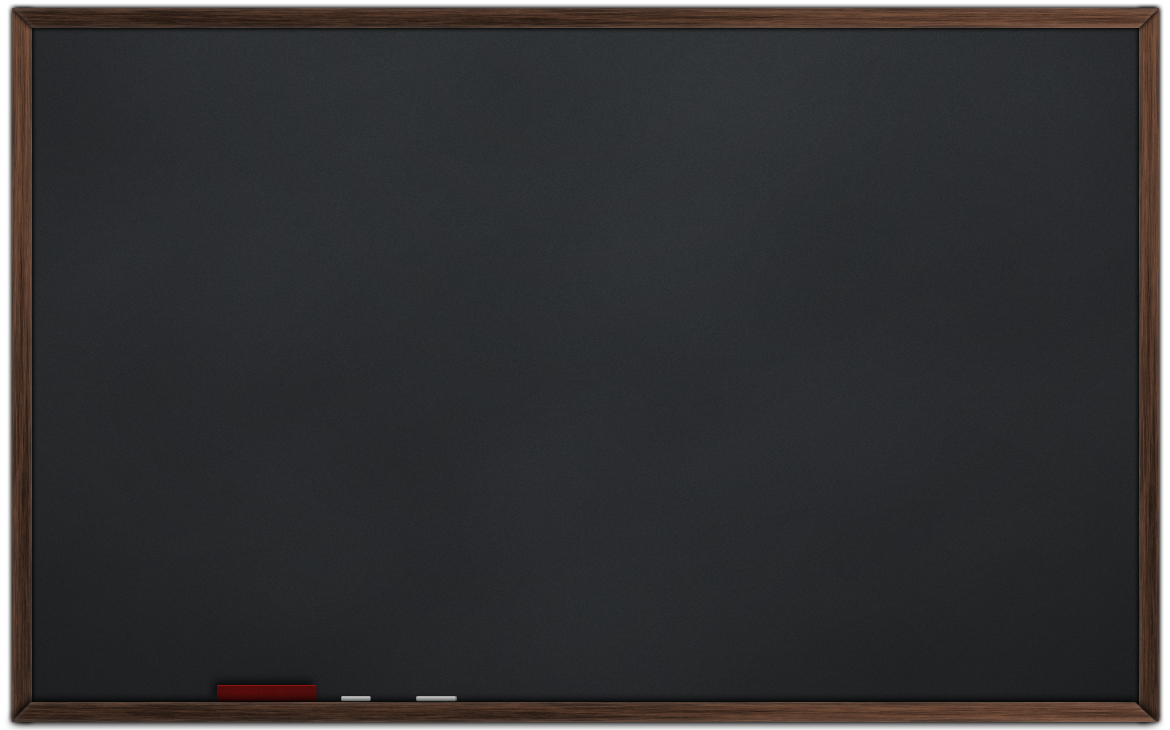
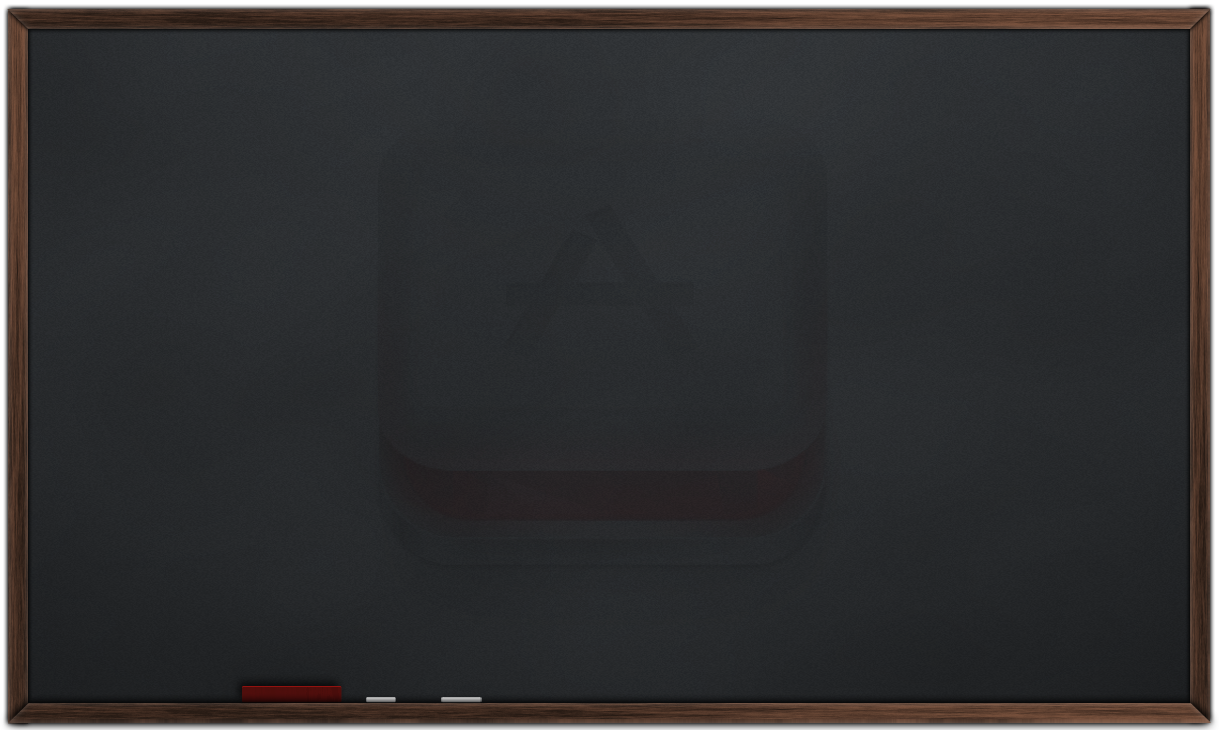
iOSOverview

Changed region(s): [[0.0, 0.0, 1.0, 1.0]]

diff --git a/Presentation/reveal/css/theme/default.css b/Presentation/reveal/css/theme/default.css
@@ -36,9 +36,32 @@ body {
 	background-repeat: no-repeat;
 	background-position:center;
 	background-color: #070707;
-	background-size: 83%;
+	background-size: 87%;
 	
 }
+
+
+/*http://css-tricks.com/snippets/css/media-queries-for-standard-devices */
+/* iPads (portrait and landscape) ----------- */
+@media only screen 
+and (min-device-width : 768px) 
+and (max-device-width : 1024px) {
+/* Styles */
+  body {
+  	background-size: 120%;
+  }
+}
+
+/* iPhone (portrait and landscape) ----------- */
+@media only screen 
+and (min-device-width : 640px) 
+and (min-device-height : 960px) {
+/* Styles */
+  body {
+  	background-size: 220%;
+  }
+}
+
 
 
 /*********************************************

diff --git a/Presentation/reveal.md b/Presentation/reveal.md
@@ -5,38 +5,15 @@
 
 [Introduction](./00-Introduction/reveal.html)
 
+[iOS Overview](./01-iOSOverview/reveal.html)
+
+[First Application](./02-FirstApplication/reveal.html)
+
+[Objective-C](./03-ObjectiveCIntegration/reveal.html)
+
+[C language](./04-CIntegration/reveal.html)
+
+[Cocoa Overview](./05-CocoaOverview/reveal.html)
+
 </slide>
 
-<slide>
-## Daily Schedule at Class
-
-* Class Begins -- 9:00 AM
-* Break        -- around 11:45 AM, 15 minutes
-* Lunch        -- 1:00 PM to 2:00 PM
-* Break        -- around 4:00 PM, 15 minutes
-* Class Ends   -- 6:00 PM
-* Open lab     -- until 7 PM
-</slide>
-
-<slide>
-## RubyMotion Course Goals
-
-Learn how to get the most out of Cocoa Frameworks and its architecture
-
-* Objective-C conventions
-* Using C libraries
-* Platform Idioms
-* Key concepts: pointers, memory management, objects, messages
-* Fundamental iOS Libraries
-* Cocoa Patterns
-* Testing
-</slide>
-
-<slide>
-## Class Structure
-
-1. Lecture or Demonstration
-2. Exercise
-3. Challenge (try them independently for best results)
-4. Review
-</slide>

diff --git a/Presentation/02-FirstApplication/reveal.md b/Presentation/02-FirstApplication/reveal.md
@@ -1,0 +1,65 @@
+# iOS First Application
+
+<slide>
+# The Application
+
+![App Icon](appicon.png "App Icon") 
+
+</slide>
+
+<slide>
+## TimeZone
+
+![TimeZone](TimeZone.jpeg "TimeZone") 
+
+</slide>
+
+<slide>
+## Motion command
+
+![OSX](Cheetah.jpeg "OSX Cheetah") 
+
+</slide>
+
+<slide>
+## Create a new project
+
+![NeXT](NeXT.jpeg "NeXT") 
+
+</slide>
+
+<slide>
+## Project Structure
+
+![iOS Stack image goes here](/photo.jpeg "iOS Layers") 
+
+</slide>
+
+<slide>
+## MVC/MVP
+
+![States images goes here](mvp.jpeg "RubyMotion Stack") 
+
+</slide>
+
+<slide>
+## Simulator
+
+![Event image goes here](/photo.jpeg "Event System") 
+
+</slide>
+
+<slide>
+## Object Diagram
+
+![RunLoop image goes here](/photo.jpeg "Run loop") 
+
+</slide>
+
+<slide>
+## Making Connections
+
+![States images goes here](/photo.jpeg "Application States") 
+
+</slide>
+

diff --git a/Presentation/01-iOSOverview/reveal.md b/Presentation/01-iOSOverview/reveal.md
@@ -1,0 +1,57 @@
+# iOS Overview
+
+<slide>
+# iOS Architecture
+
+![iOS](iOS.jpeg "iOS") 
+
+</slide>
+
+<slide>
+## NeXt
+
+![NeXT](NeXT.jpeg "NeXT") 
+
+</slide>
+
+<slide>
+## OSX 
+
+![OSX](Cheetah.jpeg "OSX Cheetah") 
+
+</slide>
+
+<slide>
+## Kernel & Services
+
+![iOS Stack image goes here](/images/photo.jpeg "iOS Layers") 
+
+</slide>
+
+<slide>
+## Windows & Event System
+
+![Event image goes here](/images/photo.jpeg "Event System") 
+
+</slide>
+
+<slide>
+## Application RunLoop
+
+![RunLoop image goes here](/images/photo.jpeg "Run loop") 
+
+</slide>
+
+<slide>
+## Application States
+
+![States images goes here](/images/photo.jpeg "Application States") 
+
+</slide>
+
+<slide>
+## RubyMotion Stack
+
+![States images goes here](/images/photo.jpeg "RubyMotion Stack") 
+
+</slide>

diff --git a/Presentation/00-Introduction/reveal.md b/Presentation/00-Introduction/reveal.md
@@ -4,6 +4,19 @@
 # Welcome to the RubyMotion course
 
 ### This is a five-day class that will prepare you for creating native iOS apps using Ruby
+
+</slide>
+
+<slide>
+# Trainners
+
+* Laurent Sansonetti 
+  - e-mail: <lrz@hipbyte.com> 
+  - twitter: @lrz
+* Norberto Ortigoza 
+  - e-mail: <norberto.ortigoza@raku.mx>
+  - twitter: @hiphoox 
+
 </slide>
 
 <slide>
@@ -21,7 +34,7 @@
 <slide>
 ## RubyMotion Course Goals
 
-Learn how to get the most out of iOS and Cocoa Frameworks
+Learn how to get the most out of iOS & Cocoa 
 
 * Objective-C conventions
 * Using C libraries
@@ -40,5 +53,10 @@ Learn how to get the most out of iOS and Cocoa Frameworks
 2. Exercise
 3. Challenges
 4. Review
+
+</slide>
+
+<slide>
+# Let's get started!
 
 </slide>
